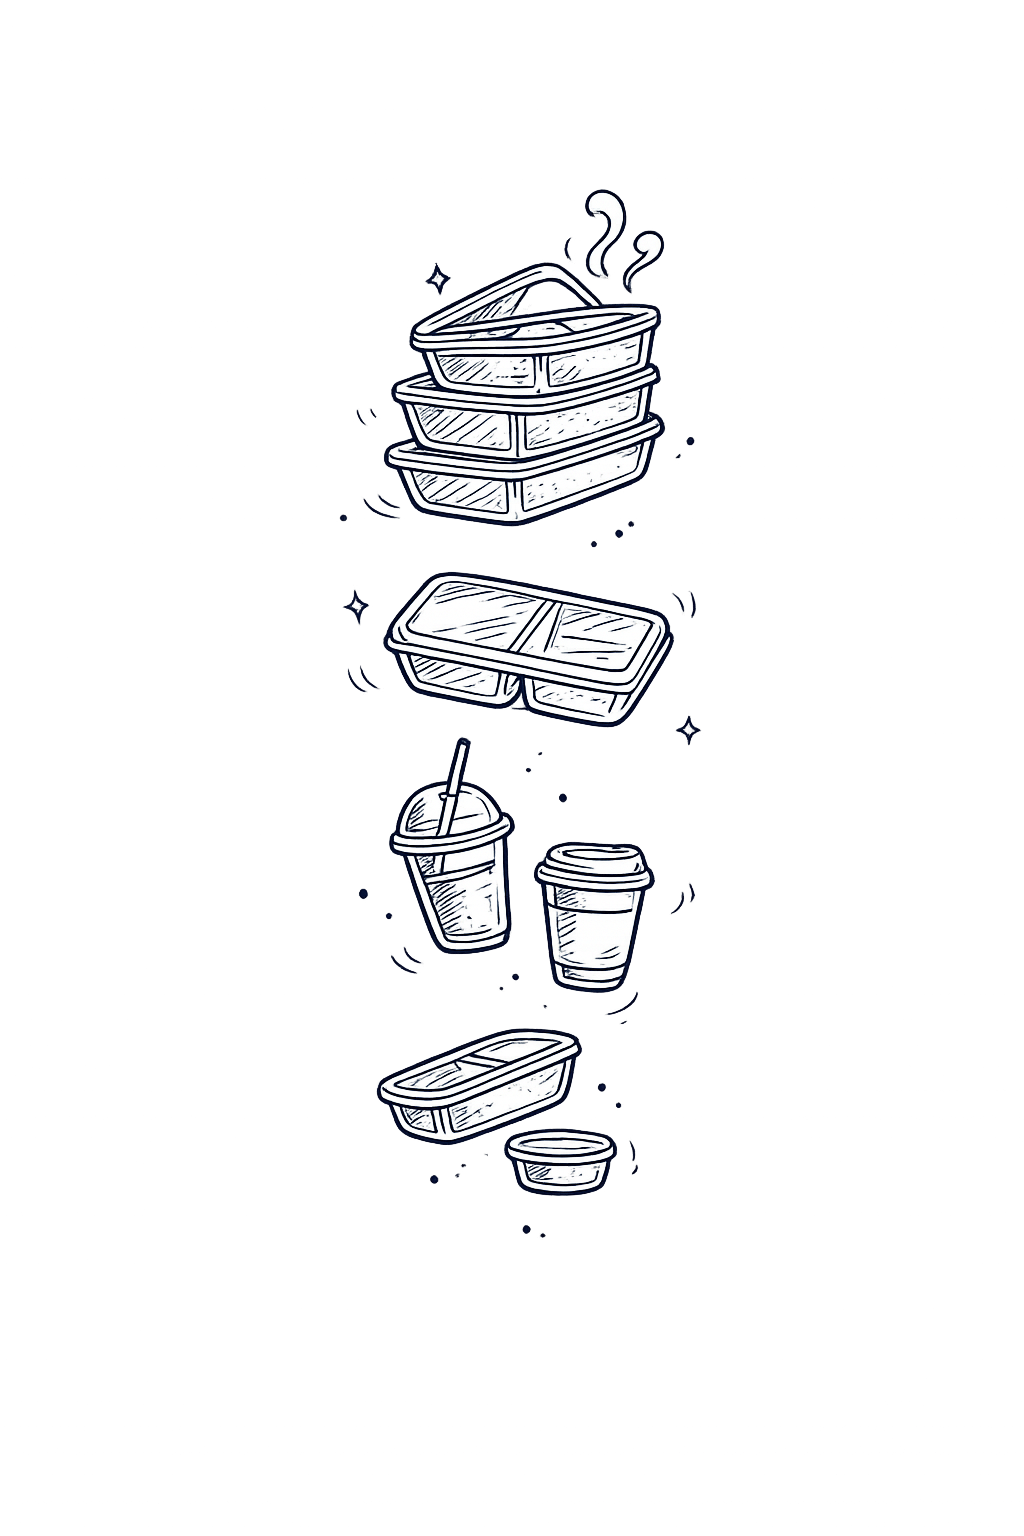
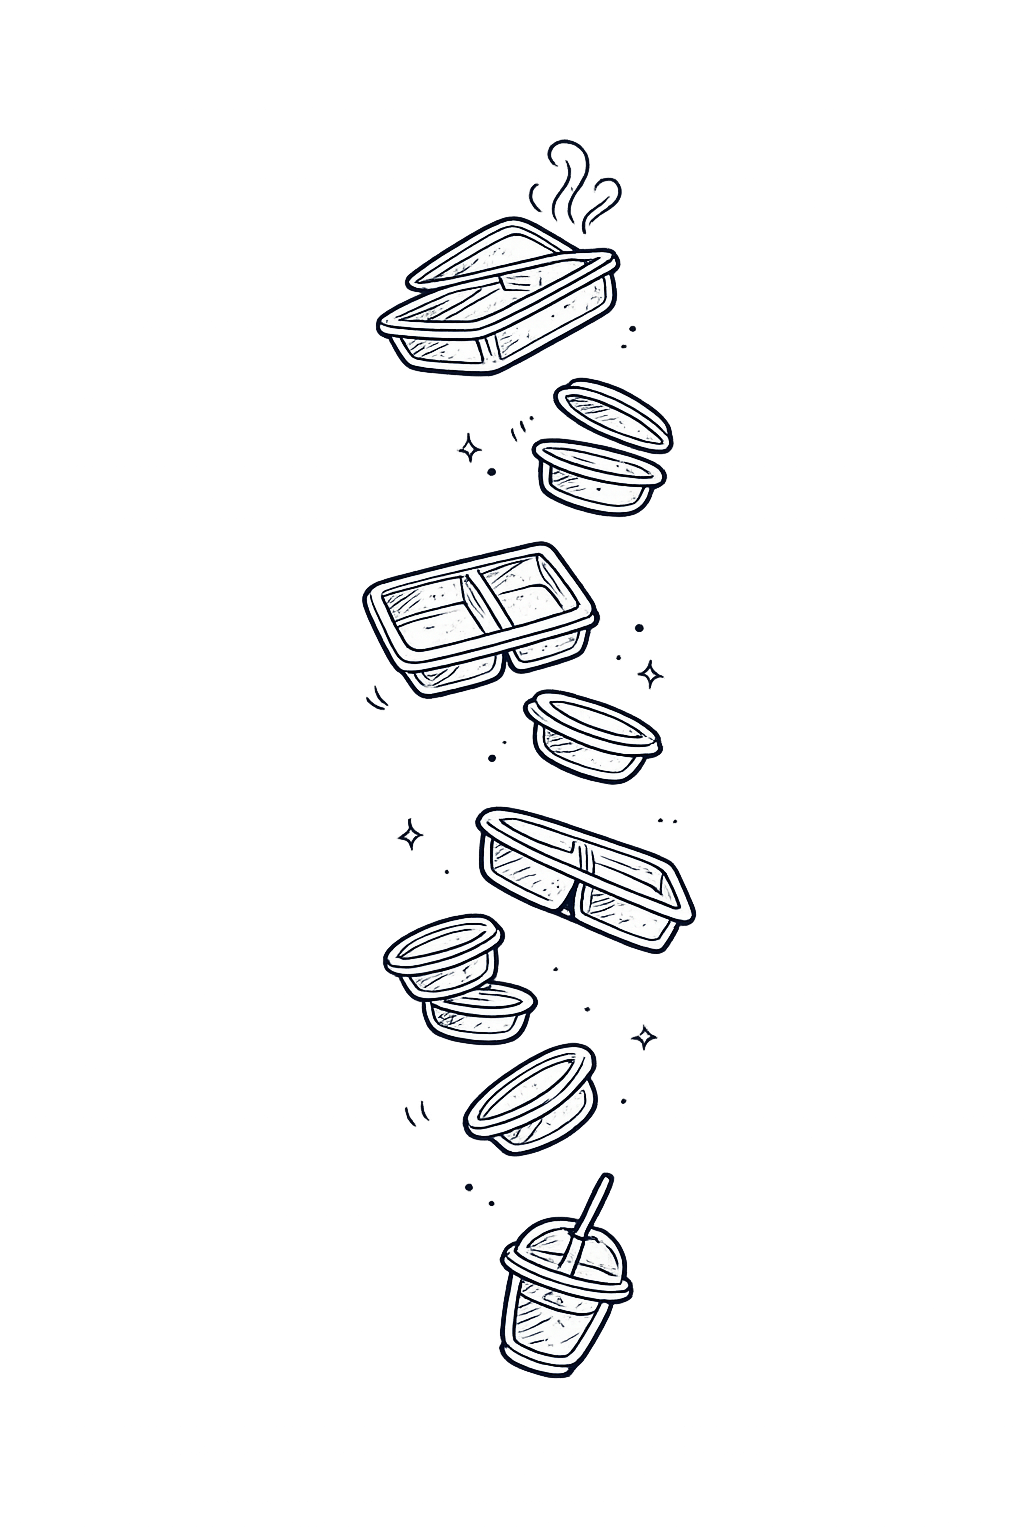
Ganti ilustrasi testimoni ke bento + sauce cup (cache-bust v2)

Changed region(s): [[0.3438, 0.0938, 0.6875, 0.9062], [0.625, 0.6562, 0.6562, 0.6875]]

diff --git a/index.html b/index.html
@@ -371,7 +371,7 @@
 <!-- ============ TESTIMONI ============ -->
 <section class="section" id="testimoni" data-screen-label="Testimoni" style="background:var(--bg-soft);">
   <!-- floating thinwall illustration on the right -->
-  <div class="section-art art-testi-right" aria-hidden="true"><img src="assets/art-floating-thinwall.png" alt="" /></div>
+  <div class="section-art art-testi-right" aria-hidden="true"><img src="assets/art-floating-thinwall.png?v=2" alt="" /></div>
   <div class="container">
     <div class="sec-head center reveal">
       <span class="overline eyebrow-rule">Apa Kata Pelanggan Kami</span>
